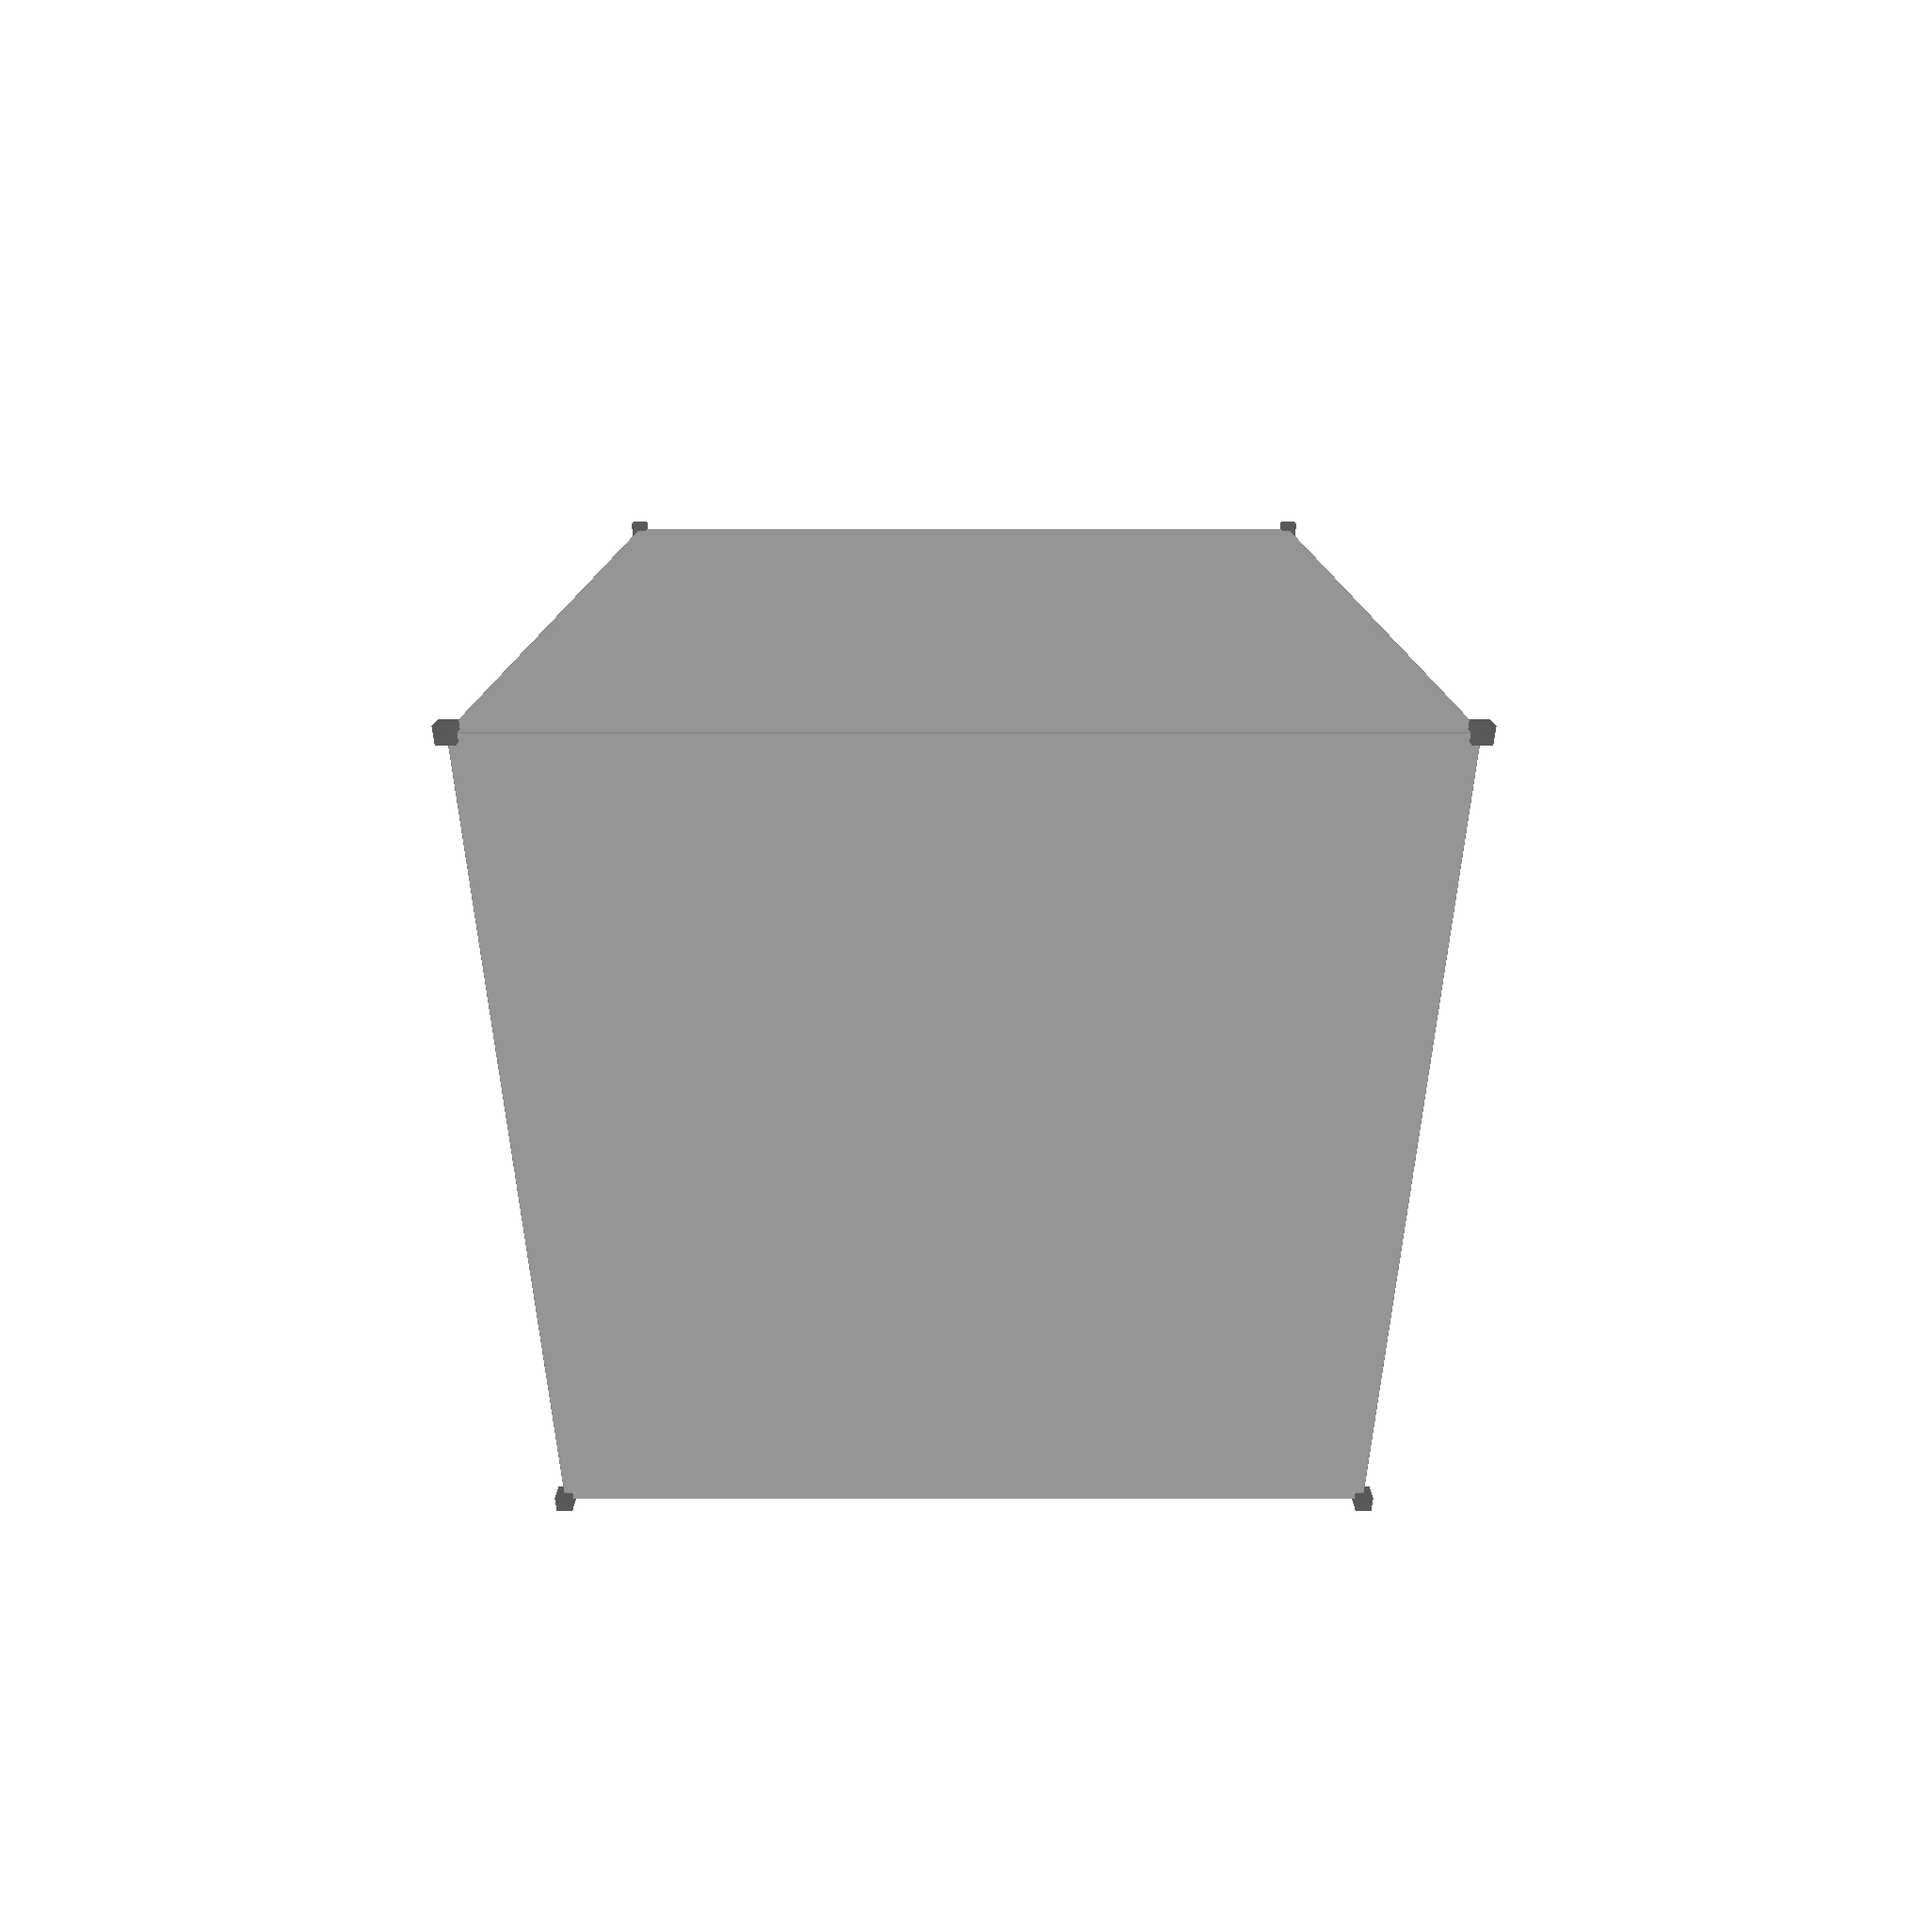
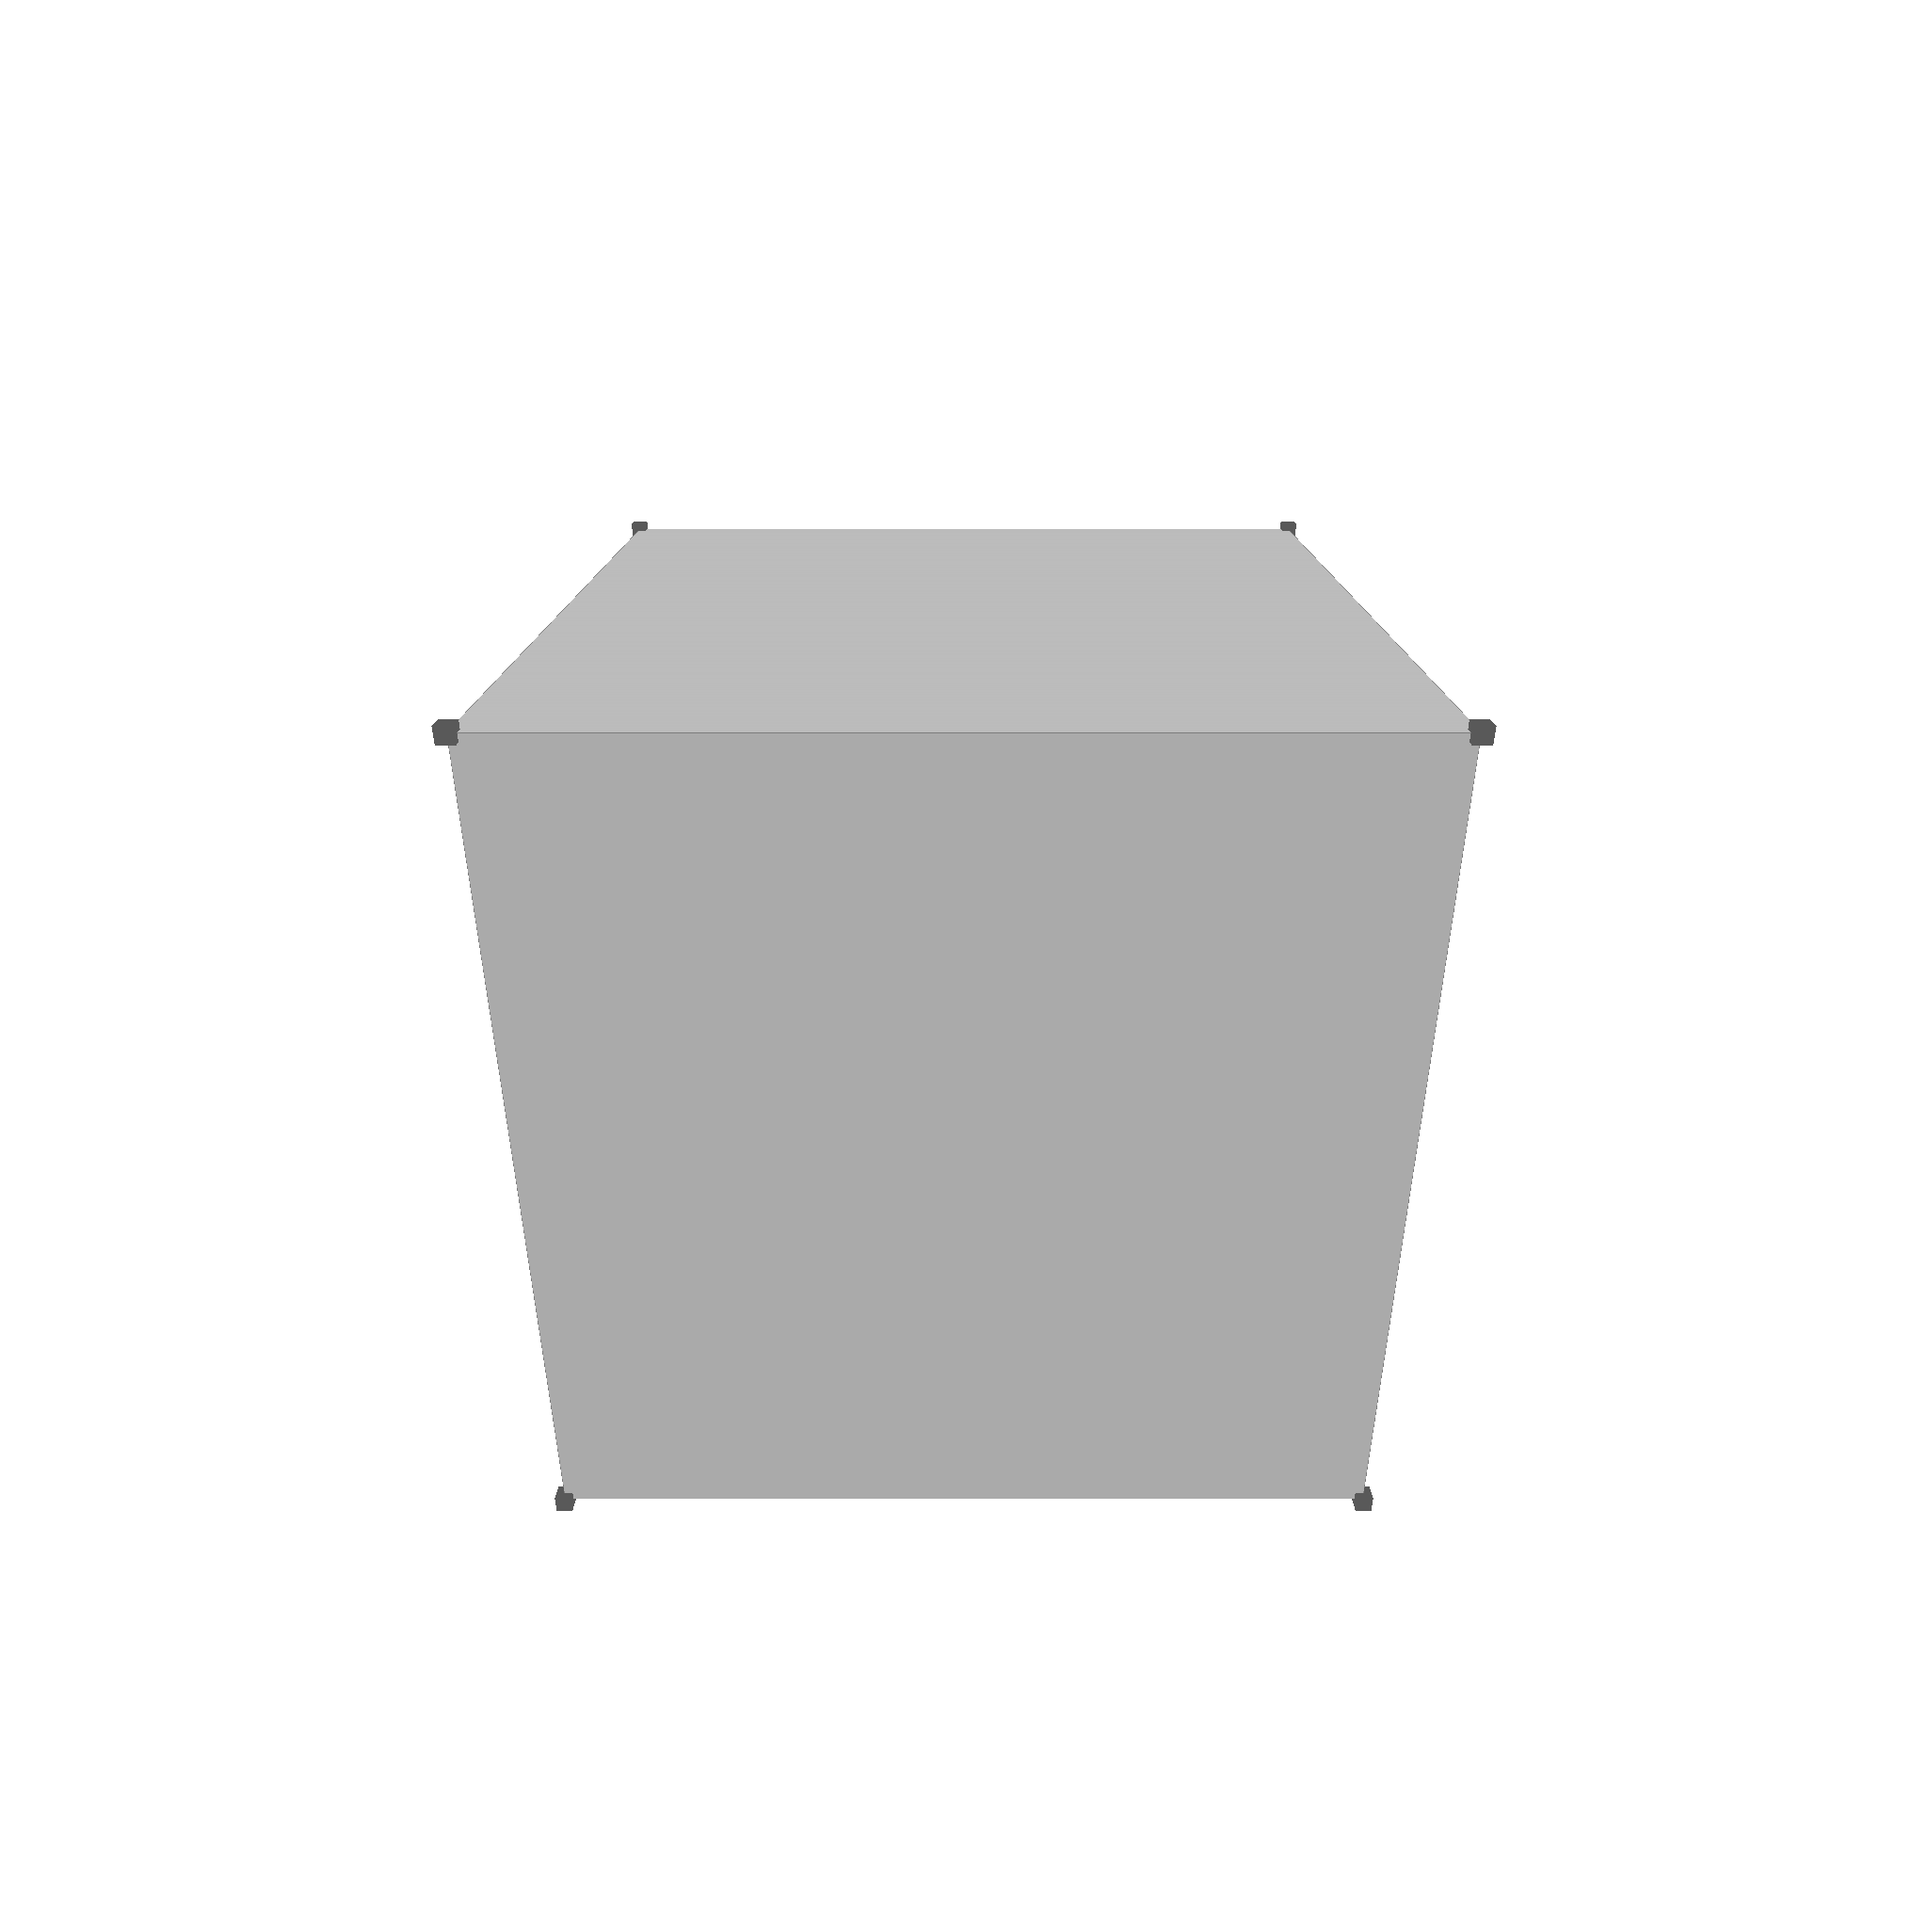
Progress

Changed region(s): [[0.25, 0.25, 0.75, 0.4062]]

diff --git a/crates/geop-rasterize/src/face.rs b/crates/geop-rasterize/src/face.rs
@@ -1,10 +1,6 @@
-use std::{collections::VecDeque, os::unix::process};
+use std::collections::VecDeque;
 
-use geop_geometry::{
-    points::point::Point,
-    surfaces::surface::{Surface, TangentPoint},
-    EQ_THRESHOLD,
-};
+use geop_geometry::{points::point::Point, surfaces::surface::Surface, EQ_THRESHOLD};
 use geop_topology::{
     contains::face_point::{face_point_contains, FacePointContains},
     topology::{face::Face, scene::Color},
@@ -15,7 +11,6 @@ use crate::{
     edge_buffer::{EdgeBuffer, RenderEdge},
     triangle_buffer::{RenderTriangle, TriangleBuffer},
     vertex_buffer::{RenderVertex, VertexBuffer},
-    vertex_normal_buffer::RenderNormalVertex,
 };
 
 // struct PointBuffer {
@@ -203,6 +198,29 @@ pub fn triangle_intersects_triangle(
     true
 }
 
+// 3D line line intersection
+pub fn render_edge_intersects_render_edge(edge1: &RenderEdge, edge2: &RenderEdge) -> bool {
+    let dir1 = edge1.end.point() - edge1.start.point();
+    let dir2 = edge2.end.point() - edge2.start.point();
+
+    // Parallel lines are assumed to not intersect
+    let cross = dir1.cross(dir2);
+    let cross_normsq = cross.norm_sq();
+    if cross_normsq < EQ_THRESHOLD {
+        return false;
+    }
+
+    let diff = edge2.start.point() - edge1.start.point();
+    let t = diff.cross(dir2).dot(cross) / cross_normsq;
+    let u = diff.cross(dir1).dot(cross) / cross_normsq;
+
+    // Check if the intersection point is on the line segments
+    if t > EQ_THRESHOLD && t < 1.0 - EQ_THRESHOLD && u > EQ_THRESHOLD && u < 1.0 - EQ_THRESHOLD {
+        return true;
+    }
+    return false;
+}
+
 pub fn triangle_intersects_triangle_list(
     surface: &Surface,
     triangle: &RenderTriangle,
@@ -223,7 +241,7 @@ pub fn check_triangle(
     color: Color,
     processed_edges: &[RenderEdge],
     other_candidate_points: &[RenderVertex],
-) -> Option<RenderVertex> {
+) -> Option<()> {
     let triangle = RenderTriangle::new(
         edge.start.into(),
         edge.end.into(),
@@ -238,8 +256,10 @@ pub fn check_triangle(
         return None;
     }
 
+    // let mut violation_count = 0 as usize;
     for other_point in other_candidate_points.iter() {
         if inside_triangle_circumcircle(surface, &edge, &point, other_point) {
+            // violation_count += 1;
             return None;
         }
         // println!("Detected inside_triangle_circumcircle");
@@ -256,7 +276,33 @@ pub fn check_triangle(
     if processed_edges.contains(&RenderEdge::new(point.into(), edge.start.into(), color)) {
         return None;
     }
-    return Some(point);
+    // Check if the triangle intersects with any boundary. This prevents an accidential "wall glitch" of small long thin holes in a circle, which may be overstepped otherwise.
+    // let new_edge1 = RenderEdge::new(edge.start.into(), point.into(), color);
+    // let new_edge2 = RenderEdge::new(point.into(), edge.end.into(), color);
+    // for contour in contours.iter() {
+    //     for e in contour.edges.iter() {
+    //         if render_edge_intersects_render_edge(&new_edge1, e) {
+    //             return None;
+    //         }
+    //         if render_edge_intersects_render_edge(&new_edge2, e) {
+    //             return None;
+    //         }
+    //     }
+    // }
+    // for processed_edge in processed_edges.iter() {
+    //     if render_edge_intersects_render_edge(&new_edge1, processed_edge) {
+    //         return None;
+    //     }
+    //     if render_edge_intersects_render_edge(&new_edge2, processed_edge) {
+    //         return None;
+    //     }
+    // }
+    // for other_triangle in triangles.iter() {
+    //     if triangle_intersects_triangle(surface, &triangle, other_triangle) {
+    //         return None;
+    //     }
+    // }
+    return Some();
 }
 
 pub fn rasterize_face_into_triangle_list(face: &Face, color: Color) -> TriangleBuffer {
@@ -347,9 +393,10 @@ pub fn rasterize_face_into_triangle_list(face: &Face, color: Color) -> TriangleB
             break;
         }
         let mut best_triangle_point: Option<RenderVertex> = None;
-        // Now find the smallest valid triangle
+        // let mut best_value = usize::max_value();
+        // Now find the best valid triangle
         for point in connection_points.iter() {
-            if let Some(better_point) = check_triangle(
+            if let Some(_) = check_triangle(
                 &face.surface,
                 edge,
                 *point,
@@ -357,7 +404,7 @@ pub fn rasterize_face_into_triangle_list(face: &Face, color: Color) -> TriangleB
                 processed_edges.as_slice(),
                 &connection_points,
             ) {
-                best_triangle_point = Some(better_point);
+                best_triangle_point = Some(*point);
                 break;
             }
         }
@@ -404,21 +451,9 @@ pub fn rasterize_face_into_line_list(face: &Face, color: Color) -> EdgeBuffer {
 
 pub fn rasterize_face_into_vertex_list(face: &Face, color: Color) -> VertexBuffer {
     let mut buffer = Vec::<RenderVertex>::new();
-    if let Some(boundary) = &face.boundary {
-        buffer.extend(
-            rasterize_contour_into_line_list(boundary, color)
-                .edges
-                .iter()
-                .map(|edge| edge.start),
-        );
-    }
-    for contour in face.holes.iter() {
-        buffer.extend(
-            rasterize_contour_into_line_list(contour, color)
-                .edges
-                .iter()
-                .map(|edge| edge.start),
-        );
+
+    for p in face.all_points().iter() {
+        buffer.push(RenderVertex::new(p.clone(), color));
     }
     VertexBuffer::new(buffer)
 }

diff --git a/crates/geop-topology/src/primitive_objects/volumes/cube.rs b/crates/geop-topology/src/primitive_objects/volumes/cube.rs
@@ -12,10 +12,10 @@ use crate::{
 };
 
 pub fn primitive_cube(size_x: f64, size_y: f64, size_z: f64) -> Volume {
-    let p1 = Point::new(-size_x / 2.0, -size_y / 2.0, -size_z / 2.0);
-    let p2 = Point::new(size_x / 2.0, -size_y / 2.0, -size_z / 2.0);
-    let p3 = Point::new(size_x / 2.0, size_y / 2.0, -size_z / 2.0);
-    let p4 = Point::new(-size_x / 2.0, size_y / 2.0, -size_z / 2.0);
+    let p1 = Point::new(-size_x / 2.0, size_y / 2.0, -size_z / 2.0);
+    let p2 = Point::new(size_x / 2.0, size_y / 2.0, -size_z / 2.0);
+    let p3 = Point::new(size_x / 2.0, -size_y / 2.0, -size_z / 2.0);
+    let p4 = Point::new(-size_x / 2.0, -size_y / 2.0, -size_z / 2.0);
 
     let edge1 = primitive_line(p1, p2);
     let edge2 = primitive_line(p2, p3);
@@ -33,7 +33,7 @@ pub fn primitive_cube(size_x: f64, size_y: f64, size_z: f64) -> Volume {
         Rc::new(Surface::Plane(Plane::new(
             Point::new(0.0, 0.0, -size_z / 2.0),
             Point::new(1.0, 0.0, 0.0),
-            Point::new(0.0, 1.0, 0.0),
+            Point::new(0.0, -1.0, 0.0),
         ))),
     );
 
